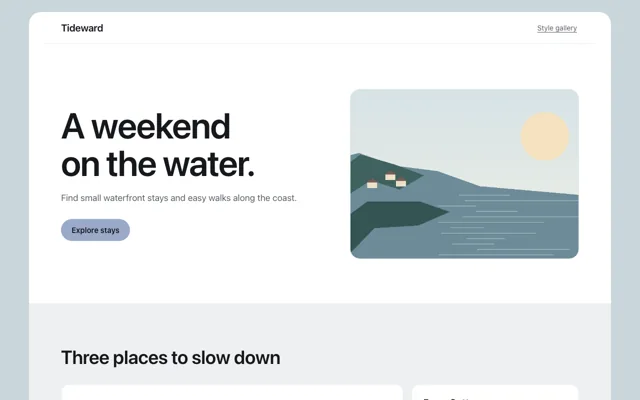
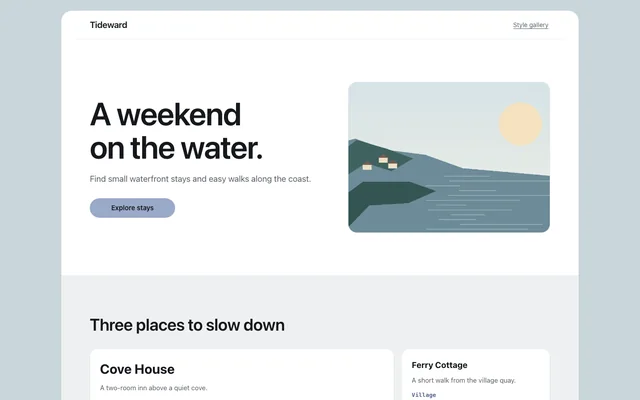
Align gallery content and standardize preset action sizes

diff --git a/examples/gallery-white/index.html b/examples/gallery-white/index.html
@@ -16,6 +16,9 @@
   --display: -apple-system, BlinkMacSystemFont, "SF Pro Display", "Segoe UI", Roboto, "Helvetica Neue", sans-serif;
   --mono: ui-monospace, "SF Mono", Menlo, Consolas, monospace;
   --r-sheet: 0px; --r-panel: 18px; --r-card: 28px; --r-pill: 980px; --maxw: 980px; --nav-h: 48px;
+  --example-action-width: 12rem; --example-action-height: 44px;
+  --gutter: clamp(16px, 4vw, 22px);
+  --rail: min(calc(100% - 2 * var(--gutter)), var(--maxw));
   --stage-plate: url("stage.webp"); --ground-plate: url("ground.webp");
 }
 html, body { margin: 0; }
@@ -30,7 +33,7 @@ body { background: var(--ground); }
 .band--stage { background: var(--stage); color: var(--stage-ink); }
 .band--stage .sub { color: var(--stage-ink-2); }
 .band--stage a:not(.pill) { color: var(--stage-accent); }
-.band__col { max-width: var(--maxw); margin-inline: auto; padding-inline: 22px; text-align: center; }
+.band__col { width: var(--rail); margin-inline: auto; text-align: center; }
 
 /* §2 type */
 .eyebrow { font: 600 clamp(17px, 1.6vw, 21px)/1.2 var(--display); color: var(--accent); letter-spacing: -0.01em; margin: 0; }
@@ -39,10 +42,20 @@ body { background: var(--ground); }
 .sub { font: 400 clamp(19px, 1.9vw, 24px)/1.35 var(--sans); color: var(--ink-2); max-width: 34ch; margin: 14px auto 0; text-wrap: pretty; }
 
 /* §3 pill + chevron */
-.actions { display: flex; gap: 28px; justify-content: center; align-items: center; margin-top: 24px; flex-wrap: wrap; }
-.pill { font: 400 17px/1 var(--sans); padding: 12px 22px; border-radius: var(--r-pill); background: var(--accent-fill); color: var(--on-accent); text-decoration: none; }
+.actions { display: flex; gap: 12px; justify-content: center; align-items: center; margin-top: 24px; flex-wrap: wrap; }
+.pill, .chev {
+  box-sizing: border-box;
+  display: inline-flex;
+  align-items: center;
+  justify-content: center;
+  inline-size: min(100%, var(--example-action-width));
+  block-size: var(--example-action-height);
+  padding-inline: 8px;
+  text-align: center;
+}
+.pill { font: 400 17px/1 var(--sans); border-radius: var(--r-pill); background: var(--accent-fill); color: var(--on-accent); text-decoration: none; }
 .pill:hover { background: color-mix(in oklab, var(--accent-fill) 88%, var(--ink)); }
-.chev { display: inline-flex; align-items: center; min-height: 24px; font: 400 17px/1 var(--sans); color: var(--accent); text-decoration: none; }
+.chev { font: 400 17px/1 var(--sans); color: var(--accent); text-decoration: none; gap: .25em; }
 .chev::after { content: " \203A"; }
 .chev:hover { text-decoration: underline; text-underline-offset: 3px; }
 a:focus-visible, button:focus-visible { outline: 2px solid var(--accent); outline-offset: 3px; }
@@ -58,12 +71,12 @@ a:focus-visible, button:focus-visible { outline: 2px solid var(--accent); outlin
 .nav[data-over="stage"], .chapter[data-over="stage"] { color: var(--stage-ink); background: color-mix(in oklab, var(--stage) 80%, transparent); border-bottom-color: transparent; }
 @supports not ((backdrop-filter: blur(1px)) or (-webkit-backdrop-filter: blur(1px))) {
   .nav, .chapter { background: var(--ground); } .nav[data-over="stage"], .chapter[data-over="stage"] { background: var(--stage); } }
-.chapter { position: sticky; top: var(--nav-h); z-index: 49; height: 52px; display: flex; align-items: center; justify-content: space-between;
-  padding-inline: max(22px, calc((100% - var(--maxw)) / 2)); color: var(--ink);
+.chapter { position: sticky; top: var(--nav-h); z-index: 49; height: 52px; color: var(--ink);
   background: color-mix(in oklab, var(--ground) 80%, transparent);
   backdrop-filter: saturate(180%) blur(20px); -webkit-backdrop-filter: saturate(180%) blur(20px); border-bottom: 1px solid var(--hair); }
-.chapter strong { font: 600 21px/1 var(--display); letter-spacing: -0.01em; }
-.chapter .pill { padding: 7px 14px; font-size: 12px; }
+.chapter__row { width: var(--rail); margin-inline: auto; height: 100%; display: flex; align-items: center; justify-content: space-between; gap: 4px; }
+.chapter strong { font: 600 clamp(14px, 3.8vw, 21px)/1 var(--display); letter-spacing: -0.01em; }
+.chapter .pill { flex: 0 0 min(100%, var(--example-action-width)); }
 
 /* §5 hero stage */
 .hero { padding-bottom: 0; overflow: hidden; }
@@ -73,7 +86,8 @@ a:focus-visible, button:focus-visible { outline: 2px solid var(--accent); outlin
 .stage-product { display: block; width: min(760px, 88vw); height: auto; margin: 0 auto; }
 
 /* §6 tiles */
-.tiles { display: grid; grid-template-columns: repeat(2, minmax(0, 1fr)); gap: 12px; max-width: 1260px; margin-inline: auto; padding-inline: 12px; }
+.tiles { display: grid; grid-template-columns: repeat(2, minmax(0, 1fr)); gap: 12px; width: var(--rail); margin: 48px auto 0; }
+.band__col.headline { margin-inline: auto; }
 .tile { position: relative; isolation: isolate; overflow: hidden; border-radius: var(--r-card); background: var(--ground-2); color: var(--ink); text-align: center; padding: 44px 32px 0; min-height: 520px; display: flex; flex-direction: column; }
 .band--alt .tile:not(.tile--stage) { background: var(--ground); }
 .tile--stage { background: var(--stage-2); color: var(--stage-ink); }
@@ -86,7 +100,8 @@ a:focus-visible, button:focus-visible { outline: 2px solid var(--accent); outlin
 @media (max-width: 767px) { .tiles { grid-template-columns: 1fr; } }
 
 /* §7 specs */
-.specs { display: grid; grid-template-columns: repeat(auto-fit, minmax(180px, 1fr)); gap: 40px 24px; max-width: var(--maxw); margin: 48px auto 0; text-align: center; }
+.specs { display: grid; grid-template-columns: repeat(auto-fit, minmax(min(100%, 180px), 1fr)); gap: 40px 24px; margin: 48px auto 0; text-align: center; scroll-margin-block-start: 7rem; }
+.band[id], #studio, #hero-h { scroll-margin-block-start: 6.25rem; }
 .spec b { display: block; font: 600 clamp(40px, 5vw, 64px)/1 var(--display); letter-spacing: -0.03em; font-variant-numeric: tabular-nums; }
 .spec span { display: block; margin-top: 8px; font: 400 15px/1.35 var(--sans); color: var(--ink-2); }
 .band--stage .spec span { color: var(--stage-ink-2); }
@@ -104,14 +119,14 @@ footer.band { padding-block: 40px; font-size: 12px; color: var(--muted); }
 <div class="page">
   <a class="skip" href="#main">Skip to content</a>
   <header class="nav"><nav aria-label="Site"><a href="#">Store</a><a href="#">Lumen</a><a href="#">Studio</a><a href="#">Support</a></nav></header>
-  <div class="chapter"><strong>Lumen One</strong><a class="pill" href="#buy">Buy</a></div>
+  <div class="chapter"><div class="chapter__row" data-fui-align-start="lumen" data-fui-align-end="lumen"><strong>Lumen One</strong><a class="pill" href="#buy">Buy</a></div></div>
   <main id="main">
     <section class="band hero" aria-labelledby="hero-h">
-      <div class="band__col">
+      <div class="band__col" data-fui-align-start="lumen" data-fui-align-end="lumen">
         <p class="eyebrow">Lumen One</p>
         <h1 class="headline" id="hero-h">Light, measured.</h1>
         <p class="sub">A desk lamp that reads the room and holds 4000 K all day.</p>
-        <div class="actions"><a class="pill" href="#buy">Buy</a><a class="chev" href="#more">How it holds 4000 K</a></div>
+        <div class="actions" data-fui-buttons="Lumen One actions"><a class="pill" href="#buy">Buy</a><a class="chev" href="#more">How it holds 4000 K</a></div>
       </div>
       <div class="stage">
         <div class="stage-light" aria-hidden="true"></div>
@@ -126,12 +141,12 @@ footer.band { padding-block: 40px; font-size: 12px; color: var(--muted); }
     </section>
 
     <section class="band band--stage" aria-labelledby="pro-h">
-      <div class="band__col" data-reveal>
+      <div class="band__col" id="studio" data-reveal data-fui-align-start="lumen" data-fui-align-end="lumen">
         <p class="eyebrow">Lumen One Studio</p>
         <h2 class="headline" id="pro-h">Made for the night shift.</h2>
         <p class="sub">Twice the output, half the glare, and a dimmer that goes to one lumen.</p>
-        <div class="actions"><a class="pill" href="#buy">Buy</a><a class="chev" href="#more">See the specs</a></div>
-        <div class="specs">
+        <div class="actions" data-fui-buttons="Studio actions"><a class="pill" href="#buy">Buy</a><a class="chev" href="#more">See the specs</a></div>
+        <div class="specs" id="more" data-fui-align-start="lumen" data-fui-align-end="lumen">
           <div class="spec"><b>1,200</b><span>lumens at full</span></div>
           <div class="spec"><b>2700–6500</b><span>kelvin, stepless</span></div>
           <div class="spec"><b>92</b><span>colour rendering index</span></div>
@@ -149,27 +164,27 @@ footer.band { padding-block: 40px; font-size: 12px; color: var(--muted); }
       </div>
     </section>
 
-    <section class="band band--alt" aria-labelledby="tiles-h">
-      <h2 id="tiles-h" class="band__col headline" style="font-size:clamp(32px,4vw,56px)">Which Lumen is yours?</h2>
-      <div class="tiles" style="margin-top:48px">
+    <section class="band band--alt" id="buy" aria-labelledby="tiles-h">
+      <h2 id="tiles-h" class="band__col headline" style="font-size:clamp(32px,4vw,56px)" data-fui-align-start="lumen" data-fui-align-end="lumen">Which Lumen is yours?</h2>
+      <div class="tiles" data-fui-align-start="lumen" data-fui-align-end="lumen">
         <article class="tile" data-reveal>
           <p class="eyebrow">Lumen One</p>
           <h3 class="headline">Light, measured.</h3>
           <p class="sub">From 129 · 18 months of light per charge.</p>
-          <div class="actions"><a class="pill" href="#buy">Buy</a><a class="chev" href="#more">See Lumen One</a></div>
+          <div class="actions" data-fui-buttons="Lumen One tile actions"><a class="pill" href="#buy">Buy</a><a class="chev" href="#hero-h">See Lumen One</a></div>
           <figure aria-hidden="true"><svg viewBox="0 0 560 260"><rect x="150" y="60" width="260" height="40" rx="20" fill="var(--ink)"/><rect x="272" y="98" width="16" height="140" rx="8" fill="var(--ink-2)"/><rect x="210" y="234" width="140" height="22" rx="11" fill="var(--ink-2)"/></svg></figure>
         </article>
         <article class="tile tile--stage" data-reveal>
           <p class="eyebrow">Lumen One Studio</p>
           <h3 class="headline">Made for the night shift.</h3>
           <p class="sub">From 249 · stepless 2700–6500 K.</p>
-          <div class="actions"><a class="pill" href="#buy">Buy</a><a class="chev" href="#more">See Lumen One Studio</a></div>
+          <div class="actions" data-fui-buttons="Studio tile actions"><a class="pill" href="#buy">Buy</a><a class="chev" href="#studio">See Lumen One Studio</a></div>
           <figure aria-hidden="true"><svg viewBox="0 0 560 260"><rect x="140" y="56" width="280" height="44" rx="22" fill="var(--stage-ink)"/><rect x="271" y="98" width="18" height="140" rx="9" fill="var(--stage-ink-2)"/><rect x="204" y="234" width="152" height="22" rx="11" fill="var(--stage-ink-2)"/></svg></figure>
         </article>
       </div>
     </section>
   </main>
-  <footer class="band"><div class="band__col">Demo page for fantastic-ui Preset L. Fictional product; no real brand.</div></footer>
+  <footer class="band"><div class="band__col" data-fui-align-start="lumen" data-fui-align-end="lumen">Demo page for fantastic-ui Preset L. Fictional product; no real brand.</div></footer>
 </div>
 <script>
 const nav = document.querySelector(".nav");

diff --git a/examples/presets/dispatch-yellow.html b/examples/presets/dispatch-yellow.html
@@ -47,12 +47,12 @@
 <div class="page" data-sep="hairline">
 <a class="skip" href="#main">Skip to content</a>
 <div class="sheet">
-<header class="wrap nav"><span class="brand">Dayline Dispatch</span><nav aria-label="Main"><ul><li><a href="index.html">Style gallery</a></li></ul></nav></header>
+<header data-fui-align-start="preset" data-fui-align-end="preset" class="wrap nav"><span class="brand">Dayline Dispatch</span><nav aria-label="Main"><ul><li><a href="index.html">Style gallery</a></li></ul></nav></header>
 <main id="main">
-<section class="hero hero--statement"><div class="wrap"><div><h1 class="headline">Get a van across town.</h1><p class="sub">See sample pickup windows and choose the right service for your load.</p><div class="actions"><a class="btn btn--primary" href="#example-content">View pickup windows</a></div></div><figure class="slot panel band" aria-hidden="true"></figure><div class="proof stats panel"><div class="stat"><b>30</b><span>Minutes for local pickup</span></div><div class="stat"><b>02</b><span>Van sizes</span></div><div class="stat"><b>7–7</b><span>Daily dispatch hours</span></div></div></div></section>
-<section class="section" id="example-content"><div class="wrap"><h2>Pickup options</h2><ol class="list"><li><span class="idx">01</span><div><strong>Express</strong><br><span>Direct pickup and delivery.</span></div><span class="meta">30–60 min</span></li><li><span class="idx">02</span><div><strong>Scheduled</strong><br><span>Reserve a two-hour pickup window.</span></div><span class="meta">Same day</span></li><li><span class="idx">03</span><div><strong>Large load</strong><br><span>High-roof van with a second handler.</span></div><span class="meta">By request</span></li></ol></div></section>
+<section class="hero hero--statement"><div data-fui-align-start="preset" data-fui-align-end="preset" class="wrap"><div><h1 class="headline">Get a van across town.</h1><p class="sub">See sample pickup windows and choose the right service for your load.</p><div class="actions" data-fui-buttons="Example actions"><a class="btn btn--primary" href="#example-content">View pickup windows</a></div></div><figure class="slot panel band" aria-hidden="true"></figure><div class="proof stats panel"><div class="stat"><b>30</b><span>Minutes for local pickup</span></div><div class="stat"><b>02</b><span>Van sizes</span></div><div class="stat"><b>7–7</b><span>Daily dispatch hours</span></div></div></div></section>
+<section class="section" id="example-content"><div data-fui-align-start="preset" data-fui-align-end="preset" class="wrap"><h2>Pickup options</h2><ol class="list"><li><span class="idx">01</span><div><strong>Express</strong><br><span>Direct pickup and delivery.</span></div><span class="meta">30–60 min</span></li><li><span class="idx">02</span><div><strong>Scheduled</strong><br><span>Reserve a two-hour pickup window.</span></div><span class="meta">Same day</span></li><li><span class="idx">03</span><div><strong>Large load</strong><br><span>High-roof van with a second handler.</span></div><span class="meta">By request</span></li></ol></div></section>
 </main>
-<footer class="wrap foot">Fictional example · Dispatch Yellow</footer>
+<footer data-fui-align-start="preset" data-fui-align-end="preset" class="wrap foot">Fictional example · Dispatch Yellow</footer>
 </div>
 </div>
 </body>

diff --git a/examples/presets/broadcast-light.html b/examples/presets/broadcast-light.html
@@ -44,12 +44,12 @@
 <div class="page" data-sep="hairline" data-sheet>
 <a class="skip" href="#main">Skip to content</a>
 <div class="sheet">
-<header class="wrap nav"><span class="brand">Undercurrent Radio</span><nav aria-label="Main"><ul><li><a href="index.html">Style gallery</a></li></ul></nav></header>
+<header data-fui-align-start="preset" data-fui-align-end="preset" class="wrap nav"><span class="brand">Undercurrent Radio</span><nav aria-label="Main"><ul><li><a href="index.html">Style gallery</a></li></ul></nav></header>
 <main id="main">
-<section class="hero hero--stack"><div class="wrap"><div><h1 class="headline">Stories from below the surface.</h1><p class="sub">A short series about the people who work on rivers, harbors and canals.</p><div class="actions"><a class="btn btn--primary" href="#example-content">Browse episodes</a></div></div><figure class="slot panel band" aria-hidden="true"><img src="art/sound.webp" width="900" height="560" alt=""></figure></div></section>
-<section class="section" id="example-content"><div class="wrap"><h2>Season one</h2><div class="cards"><article class="card"><h3>The lock keeper</h3><p>Keeping an old canal moving through a dry summer.</p><span class="meta">28 min</span></article><article class="card"><h3>A tidal dock</h3><p>A day in the life of a harbor pilot.</p><span class="meta">34 min</span></article><article class="card"><h3>River signals</h3><p>What flood markers tell the people who live nearby.</p><span class="meta">25 min</span></article><article class="card"><h3>After the last ferry</h3><p>The crews who keep crossings running.</p><span class="meta">31 min</span></article></div></div></section>
+<section class="hero hero--stack"><div data-fui-align-start="preset" data-fui-align-end="preset" class="wrap"><div><h1 class="headline">Stories from below the surface.</h1><p class="sub">A short series about the people who work on rivers, harbors and canals.</p><div class="actions" data-fui-buttons="Example actions"><a class="btn btn--primary" href="#example-content">Browse episodes</a></div></div><figure class="slot panel band" aria-hidden="true"><img src="art/sound.webp" width="900" height="560" alt=""></figure></div></section>
+<section class="section" id="example-content"><div data-fui-align-start="preset" data-fui-align-end="preset" class="wrap"><h2>Season one</h2><div class="cards"><article class="card"><h3>The lock keeper</h3><p>Keeping an old canal moving through a dry summer.</p><span class="meta">28 min</span></article><article class="card"><h3>A tidal dock</h3><p>A day in the life of a harbor pilot.</p><span class="meta">34 min</span></article><article class="card"><h3>River signals</h3><p>What flood markers tell the people who live nearby.</p><span class="meta">25 min</span></article><article class="card"><h3>After the last ferry</h3><p>The crews who keep crossings running.</p><span class="meta">31 min</span></article></div></div></section>
 </main>
-<footer class="wrap foot">Fictional example · Broadcast Light</footer>
+<footer data-fui-align-start="preset" data-fui-align-end="preset" class="wrap foot">Fictional example · Broadcast Light</footer>
 </div>
 </div>
 </body>

diff --git a/examples/presets/marigold-report.html b/examples/presets/marigold-report.html
@@ -44,12 +44,12 @@
 <div class="page" data-sep="hairline">
 <a class="skip" href="#main">Skip to content</a>
 <div class="sheet">
-<header class="wrap nav"><span class="brand">Northline Research</span><nav aria-label="Main"><ul><li><a href="index.html">Style gallery</a></li></ul></nav></header>
+<header data-fui-align-start="preset" data-fui-align-end="preset" class="wrap nav"><span class="brand">Northline Research</span><nav aria-label="Main"><ul><li><a href="index.html">Style gallery</a></li></ul></nav></header>
 <main id="main">
-<section class="hero hero--split"><div class="wrap"><div><h1 class="headline">What kept projects on schedule.</h1><p class="sub">A quarterly field report on approvals, lead times, and delivery across three sample sites.</p><div class="actions"><a class="btn btn--primary" href="#example-content">Read the findings</a></div></div><div class="proof stats panel"><div class="stat"><b>03</b><span>Sites reviewed</span></div><div class="stat"><b>08</b><span>Milestones sampled</span></div><div class="stat"><b>75%</b><span>Milestones on time</span></div></div></div></section>
-<section class="section" id="example-content"><div class="wrap"><h2>Delivery by site</h2><div class="table-wrap"><table class="table"><tbody><tr><td>Harbor</td><td>Permit approved in week 2</td><td class="num">100%</td></tr><tr><td>Maple</td><td>Equipment arrived one week late</td><td class="num">67%</td></tr><tr><td>Ridge</td><td>One review moved to next quarter</td><td class="num">67%</td></tr></tbody></table></div></div></section>
+<section class="hero hero--split"><div data-fui-align-start="preset" data-fui-align-end="preset" class="wrap"><div><h1 class="headline">What kept projects on schedule.</h1><p class="sub">A quarterly field report on approvals, lead times, and delivery across three sample sites.</p><div class="actions" data-fui-buttons="Example actions"><a class="btn btn--primary" href="#example-content">Read the findings</a></div></div><div class="proof stats panel"><div class="stat"><b>03</b><span>Sites reviewed</span></div><div class="stat"><b>08</b><span>Milestones sampled</span></div><div class="stat"><b>75%</b><span>Milestones on time</span></div></div></div></section>
+<section class="section" id="example-content"><div data-fui-align-start="preset" data-fui-align-end="preset" class="wrap"><h2>Delivery by site</h2><div class="table-wrap"><table class="table"><tbody><tr><td>Harbor</td><td>Permit approved in week 2</td><td class="num">100%</td></tr><tr><td>Maple</td><td>Equipment arrived one week late</td><td class="num">67%</td></tr><tr><td>Ridge</td><td>One review moved to next quarter</td><td class="num">67%</td></tr></tbody></table></div></div></section>
 </main>
-<footer class="wrap foot">Fictional example · Marigold Report</footer>
+<footer data-fui-align-start="preset" data-fui-align-end="preset" class="wrap foot">Fictional example · Marigold Report</footer>
 </div>
 </div>
 </body>

diff --git a/examples/presets/midnight-showroom.html b/examples/presets/midnight-showroom.html
@@ -47,12 +47,12 @@
 <div class="page" data-sep="hairline">
 <a class="skip" href="#main">Skip to content</a>
 <div class="sheet">
-<header class="wrap nav"><span class="brand">Vector Motoring</span><nav aria-label="Main"><ul><li><a href="index.html">Style gallery</a></li></ul></nav></header>
+<header data-fui-align-start="preset" data-fui-align-end="preset" class="wrap nav"><span class="brand">Vector Motoring</span><nav aria-label="Main"><ul><li><a href="index.html">Style gallery</a></li></ul></nav></header>
 <main id="main">
-<section class="hero hero--split"><div class="wrap"><div><h1 class="headline">The Vector&nbsp;S: built to drive.</h1><p class="sub">A lightweight concept coupe with a naturally aspirated engine and a manual gearbox.</p><div class="actions"><a class="btn btn--primary" href="#example-content">View specifications</a></div></div><figure class="slot panel " aria-hidden="true"><img src="art/showroom.webp" width="900" height="560" alt=""></figure></div></section>
-<section class="section" id="example-content"><div class="wrap"><h2>Inside the Vector S</h2><ol class="list"><li><span class="idx">01</span><div><strong>Chassis</strong><br><span>Aluminium structure with a low seating position.</span></div></li><li><span class="idx">02</span><div><strong>Powertrain</strong><br><span>Six-speed manual and rear-wheel drive.</span></div></li><li><span class="idx">03</span><div><strong>Cabin</strong><br><span>Simple instruments angled toward the driver.</span></div></li></ol></div></section>
+<section class="hero hero--split"><div data-fui-align-start="preset" data-fui-align-end="preset" class="wrap"><div><h1 class="headline">The Vector&nbsp;S: built to drive.</h1><p class="sub">A lightweight concept coupe with a naturally aspirated engine and a manual gearbox.</p><div class="actions" data-fui-buttons="Example actions"><a class="btn btn--primary" href="#example-content">View specifications</a></div></div><figure class="slot panel " aria-hidden="true"><img src="art/showroom.webp" width="900" height="560" alt=""></figure></div></section>
+<section class="section" id="example-content"><div data-fui-align-start="preset" data-fui-align-end="preset" class="wrap"><h2>Inside the Vector S</h2><ol class="list"><li><span class="idx">01</span><div><strong>Chassis</strong><br><span>Aluminium structure with a low seating position.</span></div></li><li><span class="idx">02</span><div><strong>Powertrain</strong><br><span>Six-speed manual and rear-wheel drive.</span></div></li><li><span class="idx">03</span><div><strong>Cabin</strong><br><span>Simple instruments angled toward the driver.</span></div></li></ol></div></section>
 </main>
-<footer class="wrap foot">Fictional example · Midnight Showroom</footer>
+<footer data-fui-align-start="preset" data-fui-align-end="preset" class="wrap foot">Fictional example · Midnight Showroom</footer>
 </div>
 </div>
 </body>

diff --git a/examples/presets/campus-bright.html b/examples/presets/campus-bright.html
@@ -48,12 +48,12 @@
 <div class="page" data-sep="hairline" data-sheet>
 <a class="skip" href="#main">Skip to content</a>
 <div class="sheet">
-<header class="wrap nav"><span class="brand">Open Bench</span><nav aria-label="Main"><ul><li><a href="index.html">Style gallery</a></li></ul></nav></header>
+<header data-fui-align-start="preset" data-fui-align-end="preset" class="wrap nav"><span class="brand">Open Bench</span><nav aria-label="Main"><ul><li><a href="index.html">Style gallery</a></li></ul></nav></header>
 <main id="main">
-<section class="hero hero--stack"><div class="wrap"><div><h1 class="headline">Learn by making the first thing.</h1><p class="sub">Short, hands-on courses in photography, publishing and print.</p><div class="actions"><a class="btn btn--primary" href="#example-content">Explore courses</a></div></div><figure class="slot panel band" aria-hidden="true"><img src="art/workshop.webp" width="900" height="560" alt=""></figure></div></section>
-<section class="section" id="example-content"><div class="wrap"><h2>Start with a weekend course</h2><div class="cards"><article class="card"><h3>Print your first zine</h3><p>Fold, bind and publish a short edition.</p><span class="meta">Print</span></article><article class="card"><h3>Light a small studio</h3><p>Build a one-light portrait setup.</p><span class="meta">Photo</span></article><article class="card"><h3>Edit a photo story</h3><p>Sequence eight frames into a narrative.</p><span class="meta">Editorial</span></article></div></div></section>
+<section class="hero hero--stack"><div data-fui-align-start="preset" data-fui-align-end="preset" class="wrap"><div><h1 class="headline">Learn by making the first thing.</h1><p class="sub">Short, hands-on courses in photography, publishing and print.</p><div class="actions" data-fui-buttons="Example actions"><a class="btn btn--primary" href="#example-content">Explore courses</a></div></div><figure class="slot panel band" aria-hidden="true"><img src="art/workshop.webp" width="900" height="560" alt=""></figure></div></section>
+<section class="section" id="example-content"><div data-fui-align-start="preset" data-fui-align-end="preset" class="wrap"><h2>Start with a weekend course</h2><div class="cards"><article class="card"><h3>Print your first zine</h3><p>Fold, bind and publish a short edition.</p><span class="meta">Print</span></article><article class="card"><h3>Light a small studio</h3><p>Build a one-light portrait setup.</p><span class="meta">Photo</span></article><article class="card"><h3>Edit a photo story</h3><p>Sequence eight frames into a narrative.</p><span class="meta">Editorial</span></article></div></div></section>
 </main>
-<footer class="wrap foot">Fictional example · Campus Bright</footer>
+<footer data-fui-align-start="preset" data-fui-align-end="preset" class="wrap foot">Fictional example · Campus Bright</footer>
 </div>
 </div>
 </body>

diff --git a/examples/presets/atelier-warm.html b/examples/presets/atelier-warm.html
@@ -44,12 +44,12 @@
 <div class="page" data-sep="hairline" data-sheet>
 <a class="skip" href="#main">Skip to content</a>
 <div class="sheet">
-<header class="wrap nav"><span class="brand">Stillroom Studio</span><nav aria-label="Main"><ul><li><a href="index.html">Style gallery</a></li></ul></nav></header>
+<header data-fui-align-start="preset" data-fui-align-end="preset" class="wrap nav"><span class="brand">Stillroom Studio</span><nav aria-label="Main"><ul><li><a href="index.html">Style gallery</a></li></ul></nav></header>
 <main id="main">
-<section class="hero hero--stack"><div class="wrap"><div><h1 class="headline">Rooms made for slower mornings.</h1><p class="sub">Three materials lead the palette for a small seaside residence.</p><div class="actions"><a class="btn btn--primary" href="#example-content">View materials</a></div></div><figure class="slot panel band" aria-hidden="true"><img src="art/materials.webp" width="900" height="560" alt=""></figure></div></section>
-<section class="section" id="example-content"><div class="wrap"><h2>The material board</h2><div class="cards"><article class="card"><h3>Oiled oak</h3><p>Warm grain for furniture and window seats.</p><span class="meta">Timber</span></article><article class="card"><h3>Lime plaster</h3><p>Soft reflection on walls that catch afternoon light.</p><span class="meta">Finish</span></article><article class="card"><h3>Washed linen</h3><p>An unlined curtain for diffuse light.</p><span class="meta">Textile</span></article></div></div></section>
+<section class="hero hero--stack"><div data-fui-align-start="preset" data-fui-align-end="preset" class="wrap"><div><h1 class="headline">Rooms made for slower mornings.</h1><p class="sub">Three materials lead the palette for a small seaside residence.</p><div class="actions" data-fui-buttons="Example actions"><a class="btn btn--primary" href="#example-content">View materials</a></div></div><figure class="slot panel band" aria-hidden="true"><img src="art/materials.webp" width="900" height="560" alt=""></figure></div></section>
+<section class="section" id="example-content"><div data-fui-align-start="preset" data-fui-align-end="preset" class="wrap"><h2>The material board</h2><div class="cards"><article class="card"><h3>Oiled oak</h3><p>Warm grain for furniture and window seats.</p><span class="meta">Timber</span></article><article class="card"><h3>Lime plaster</h3><p>Soft reflection on walls that catch afternoon light.</p><span class="meta">Finish</span></article><article class="card"><h3>Washed linen</h3><p>An unlined curtain for diffuse light.</p><span class="meta">Textile</span></article></div></div></section>
 </main>
-<footer class="wrap foot">Fictional example · Atelier Warm</footer>
+<footer data-fui-align-start="preset" data-fui-align-end="preset" class="wrap foot">Fictional example · Atelier Warm</footer>
 </div>
 </div>
 </body>

diff --git a/examples/presets/studio-kinetic.html b/examples/presets/studio-kinetic.html
@@ -46,12 +46,12 @@
 <div class="page" data-sep="shadow" data-sheet>
 <a class="skip" href="#main">Skip to content</a>
 <div class="sheet">
-<header class="wrap nav"><span class="brand">Switchback Studio</span><nav aria-label="Main"><ul><li><a href="index.html">Style gallery</a></li></ul></nav></header>
+<header data-fui-align-start="preset" data-fui-align-end="preset" class="wrap nav"><span class="brand">Switchback Studio</span><nav aria-label="Main"><ul><li><a href="index.html">Style gallery</a></li></ul></nav></header>
 <main id="main">
-<section class="hero hero--statement"><div class="wrap"><div><h1 class="headline">From rough idea to first release.</h1><p class="sub">A design studio that tests ideas in short, hands-on sprints.</p><div class="actions"><a class="btn btn--primary" href="#example-content">See the process</a></div></div><figure class="slot panel band" aria-hidden="true"><img src="art/paper.webp" width="900" height="560" alt=""></figure></div></section>
-<section class="section" id="example-content"><div class="wrap"><h2>How a sprint runs</h2><div class="cards"><article class="card"><h3>Frame</h3><p>Agree on the task and what success looks like.</p><span class="meta">Day 1</span></article><article class="card"><h3>Make</h3><p>Build the smallest useful prototype.</p><span class="meta">Days 2–3</span></article><article class="card"><h3>Test</h3><p>Watch people use it and decide what to change.</p><span class="meta">Days 4–5</span></article></div></div></section>
+<section class="hero hero--statement"><div data-fui-align-start="preset" data-fui-align-end="preset" class="wrap"><div><h1 class="headline">From rough idea to first release.</h1><p class="sub">A design studio that tests ideas in short, hands-on sprints.</p><div class="actions" data-fui-buttons="Example actions"><a class="btn btn--primary" href="#example-content">See the process</a></div></div><figure class="slot panel band" aria-hidden="true"><img src="art/paper.webp" width="900" height="560" alt=""></figure></div></section>
+<section class="section" id="example-content"><div data-fui-align-start="preset" data-fui-align-end="preset" class="wrap"><h2>How a sprint runs</h2><div class="cards"><article class="card"><h3>Frame</h3><p>Agree on the task and what success looks like.</p><span class="meta">Day 1</span></article><article class="card"><h3>Make</h3><p>Build the smallest useful prototype.</p><span class="meta">Days 2–3</span></article><article class="card"><h3>Test</h3><p>Watch people use it and decide what to change.</p><span class="meta">Days 4–5</span></article></div></div></section>
 </main>
-<footer class="wrap foot">Fictional example · Studio Kinetic</footer>
+<footer data-fui-align-start="preset" data-fui-align-end="preset" class="wrap foot">Fictional example · Studio Kinetic</footer>
 </div>
 </div>
 </body>

diff --git a/examples/presets/terracotta-commerce.html b/examples/presets/terracotta-commerce.html
@@ -49,12 +49,12 @@
 <div class="page" data-sep="shadow">
 <a class="skip" href="#main">Skip to content</a>
 <div class="sheet">
-<header class="wrap nav"><span class="brand">Clayline Home</span><nav aria-label="Main"><ul><li><a href="index.html">Style gallery</a></li></ul></nav></header>
+<header data-fui-align-start="preset" data-fui-align-end="preset" class="wrap nav"><span class="brand">Clayline Home</span><nav aria-label="Main"><ul><li><a href="index.html">Style gallery</a></li></ul></nav></header>
 <main id="main">
-<section class="hero hero--split"><div class="wrap"><div><h1 class="headline">Furniture for smaller rooms.</h1><p class="sub">Compact oak pieces with dimensions and care information up front.</p><div class="actions"><a class="btn btn--primary" href="#example-content">Browse pieces</a></div></div><figure class="slot panel " aria-hidden="true"><img src="art/interior.webp" width="900" height="560" alt=""></figure></div></section>
-<section class="section" id="example-content"><div class="wrap"><h2>The small-space collection</h2><div class="cards"><article class="card"><h3>Low bench</h3><p>Solid oak with a clear matte finish.</p><span class="meta">£320</span></article><article class="card"><h3>Side table</h3><p>A narrow footprint for tight corners.</p><span class="meta">£180</span></article><article class="card"><h3>Wall shelf</h3><p>Two lengths with concealed fixings.</p><span class="meta">£95</span></article></div></div></section>
+<section class="hero hero--split"><div data-fui-align-start="preset" data-fui-align-end="preset" class="wrap"><div><h1 class="headline">Furniture for smaller rooms.</h1><p class="sub">Compact oak pieces with dimensions and care information up front.</p><div class="actions" data-fui-buttons="Example actions"><a class="btn btn--primary" href="#example-content">Browse pieces</a></div></div><figure class="slot panel " aria-hidden="true"><img src="art/interior.webp" width="900" height="560" alt=""></figure></div></section>
+<section class="section" id="example-content"><div data-fui-align-start="preset" data-fui-align-end="preset" class="wrap"><h2>The small-space collection</h2><div class="cards"><article class="card"><h3>Low bench</h3><p>Solid oak with a clear matte finish.</p><span class="meta">£320</span></article><article class="card"><h3>Side table</h3><p>A narrow footprint for tight corners.</p><span class="meta">£180</span></article><article class="card"><h3>Wall shelf</h3><p>Two lengths with concealed fixings.</p><span class="meta">£95</span></article></div></div></section>
 </main>
-<footer class="wrap foot">Fictional example · Terracotta Commerce</footer>
+<footer data-fui-align-start="preset" data-fui-align-end="preset" class="wrap foot">Fictional example · Terracotta Commerce</footer>
 </div>
 </div>
 </body>

diff --git a/examples/presets/coastal-editorial.html b/examples/presets/coastal-editorial.html
@@ -47,12 +47,12 @@
 <div class="page" data-sep="hairline" data-sheet>
 <a class="skip" href="#main">Skip to content</a>
 <div class="sheet">
-<header class="wrap nav"><span class="brand">Tideward</span><nav aria-label="Main"><ul><li><a href="index.html">Style gallery</a></li></ul></nav></header>
+<header data-fui-align-start="preset" data-fui-align-end="preset" class="wrap nav"><span class="brand">Tideward</span><nav aria-label="Main"><ul><li><a href="index.html">Style gallery</a></li></ul></nav></header>
 <main id="main">
-<section class="hero hero--split"><div class="wrap"><div><h1 class="headline">A weekend on the water.</h1><p class="sub">Find small waterfront stays and easy walks along the coast.</p><div class="actions"><a class="btn btn--primary" href="#example-content">Explore stays</a></div></div><figure class="slot panel " aria-hidden="true"><img src="art/coast.webp" width="900" height="560" alt=""></figure></div></section>
-<section class="section" id="example-content"><div class="wrap"><h2>Three places to slow down</h2><div class="cards"><article class="card"><h3>Cove House</h3><p>A two-room inn above a quiet cove.</p><span class="meta">Waterfront</span></article><article class="card"><h3>Ferry Cottage</h3><p>A short walk from the village quay.</p><span class="meta">Village</span></article><article class="card"><h3>North Bluff</h3><p>Wind-shaped pines and a long view.</p><span class="meta">Clifftop</span></article></div></div></section>
+<section class="hero hero--split"><div data-fui-align-start="preset" data-fui-align-end="preset" class="wrap"><div><h1 class="headline">A weekend on the water.</h1><p class="sub">Find small waterfront stays and easy walks along the coast.</p><div class="actions" data-fui-buttons="Example actions"><a class="btn btn--primary" href="#example-content">Explore stays</a></div></div><figure class="slot panel " aria-hidden="true"><img src="art/coast.webp" width="900" height="560" alt=""></figure></div></section>
+<section class="section" id="example-content"><div data-fui-align-start="preset" data-fui-align-end="preset" class="wrap"><h2>Three places to slow down</h2><div class="cards"><article class="card"><h3>Cove House</h3><p>A two-room inn above a quiet cove.</p><span class="meta">Waterfront</span></article><article class="card"><h3>Ferry Cottage</h3><p>A short walk from the village quay.</p><span class="meta">Village</span></article><article class="card"><h3>North Bluff</h3><p>Wind-shaped pines and a long view.</p><span class="meta">Clifftop</span></article></div></div></section>
 </main>
-<footer class="wrap foot">Fictional example · Coastal Editorial</footer>
+<footer data-fui-align-start="preset" data-fui-align-end="preset" class="wrap foot">Fictional example · Coastal Editorial</footer>
 </div>
 </div>
 </body>

diff --git a/examples/presets/blueprint-mono.html b/examples/presets/blueprint-mono.html
@@ -45,12 +45,12 @@
 <div class="page" data-sep="hairline" data-sheet>
 <a class="skip" href="#main">Skip to content</a>
 <div class="sheet">
-<header class="wrap nav"><span class="brand">Datum Workshop</span><nav aria-label="Main"><ul><li><a href="index.html">Style gallery</a></li></ul></nav></header>
+<header data-fui-align-start="preset" data-fui-align-end="preset" class="wrap nav"><span class="brand">Datum Workshop</span><nav aria-label="Main"><ul><li><a href="index.html">Style gallery</a></li></ul></nav></header>
 <main id="main">
-<section class="hero hero--split"><div class="wrap"><div><h1 class="headline">Drawings that hold up on site.</h1><p class="sub">Architectural detailing and fabrication coordination for small public buildings.</p><div class="actions"><a class="btn btn--primary" href="#example-content">View drawing sets</a></div></div><figure class="slot panel " aria-hidden="true"><img src="art/drawing.webp" width="900" height="560" alt=""></figure></div></section>
-<section class="section" id="example-content"><div class="wrap"><h2>Selected drawing sets</h2><div class="table-wrap"><table class="table"><tbody><tr><td>Timber canopy</td><td>Connections and weathering</td><td>A-12</td></tr><tr><td>Library stair</td><td>Treads and handrails</td><td>A-21</td></tr><tr><td>Reading room</td><td>Casework and lighting</td><td>A-32</td></tr></tbody></table></div></div></section>
+<section class="hero hero--split"><div data-fui-align-start="preset" data-fui-align-end="preset" class="wrap"><div><h1 class="headline">Drawings that hold up on site.</h1><p class="sub">Architectural detailing and fabrication coordination for small public buildings.</p><div class="actions" data-fui-buttons="Example actions"><a class="btn btn--primary" href="#example-content">View drawing sets</a></div></div><figure class="slot panel " aria-hidden="true"><img src="art/drawing.webp" width="900" height="560" alt=""></figure></div></section>
+<section class="section" id="example-content"><div data-fui-align-start="preset" data-fui-align-end="preset" class="wrap"><h2>Selected drawing sets</h2><div class="table-wrap"><table class="table"><tbody><tr><td>Timber canopy</td><td>Connections and weathering</td><td>A-12</td></tr><tr><td>Library stair</td><td>Treads and handrails</td><td>A-21</td></tr><tr><td>Reading room</td><td>Casework and lighting</td><td>A-32</td></tr></tbody></table></div></div></section>
 </main>
-<footer class="wrap foot">Fictional example · Blueprint Mono</footer>
+<footer data-fui-align-start="preset" data-fui-align-end="preset" class="wrap foot">Fictional example · Blueprint Mono</footer>
 </div>
 </div>
 </body>

diff --git a/examples/presets/charter-navy.html b/examples/presets/charter-navy.html
@@ -47,12 +47,12 @@
 <div class="page" data-sep="hairline" data-sheet>
 <a class="skip" href="#main">Skip to content</a>
 <div class="sheet">
-<header class="wrap nav"><span class="brand">Meridian Air</span><nav aria-label="Main"><ul><li><a href="index.html">Style gallery</a></li></ul></nav></header>
+<header data-fui-align-start="preset" data-fui-align-end="preset" class="wrap nav"><span class="brand">Meridian Air</span><nav aria-label="Main"><ul><li><a href="index.html">Style gallery</a></li></ul></nav></header>
 <main id="main">
-<section class="hero hero--split"><div class="wrap"><div><h1 class="headline">Plan a direct charter.</h1><p class="sub">Compare aircraft and seating before requesting a route review.</p><div class="actions"><a class="btn btn--primary" href="#example-content">Compare aircraft</a></div></div><figure class="slot panel " aria-hidden="true"><img src="art/aircraft.webp" width="900" height="560" alt=""></figure></div></section>
-<section class="section" id="example-content"><div class="wrap"><h2>Aircraft guide</h2><div class="table-wrap"><table class="table"><tbody><tr><td>Turboprop</td><td>Short fields and regional trips</td><td class="num">6</td></tr><tr><td>Light jet</td><td>Short-haul business travel</td><td class="num">7</td></tr><tr><td>Midsize jet</td><td>Longer regional routes</td><td class="num">9</td></tr></tbody></table></div></div></section>
+<section class="hero hero--split"><div data-fui-align-start="preset" data-fui-align-end="preset" class="wrap"><div><h1 class="headline">Plan a direct charter.</h1><p class="sub">Compare aircraft and seating before requesting a route review.</p><div class="actions" data-fui-buttons="Example actions"><a class="btn btn--primary" href="#example-content">Compare aircraft</a></div></div><figure class="slot panel " aria-hidden="true"><img src="art/aircraft.webp" width="900" height="560" alt=""></figure></div></section>
+<section class="section" id="example-content"><div data-fui-align-start="preset" data-fui-align-end="preset" class="wrap"><h2>Aircraft guide</h2><div class="table-wrap"><table class="table"><tbody><tr><td>Turboprop</td><td>Short fields and regional trips</td><td class="num">6</td></tr><tr><td>Light jet</td><td>Short-haul business travel</td><td class="num">7</td></tr><tr><td>Midsize jet</td><td>Longer regional routes</td><td class="num">9</td></tr></tbody></table></div></div></section>
 </main>
-<footer class="wrap foot">Fictional example · Charter Navy</footer>
+<footer data-fui-align-start="preset" data-fui-align-end="preset" class="wrap foot">Fictional example · Charter Navy</footer>
 </div>
 </div>
 </body>
